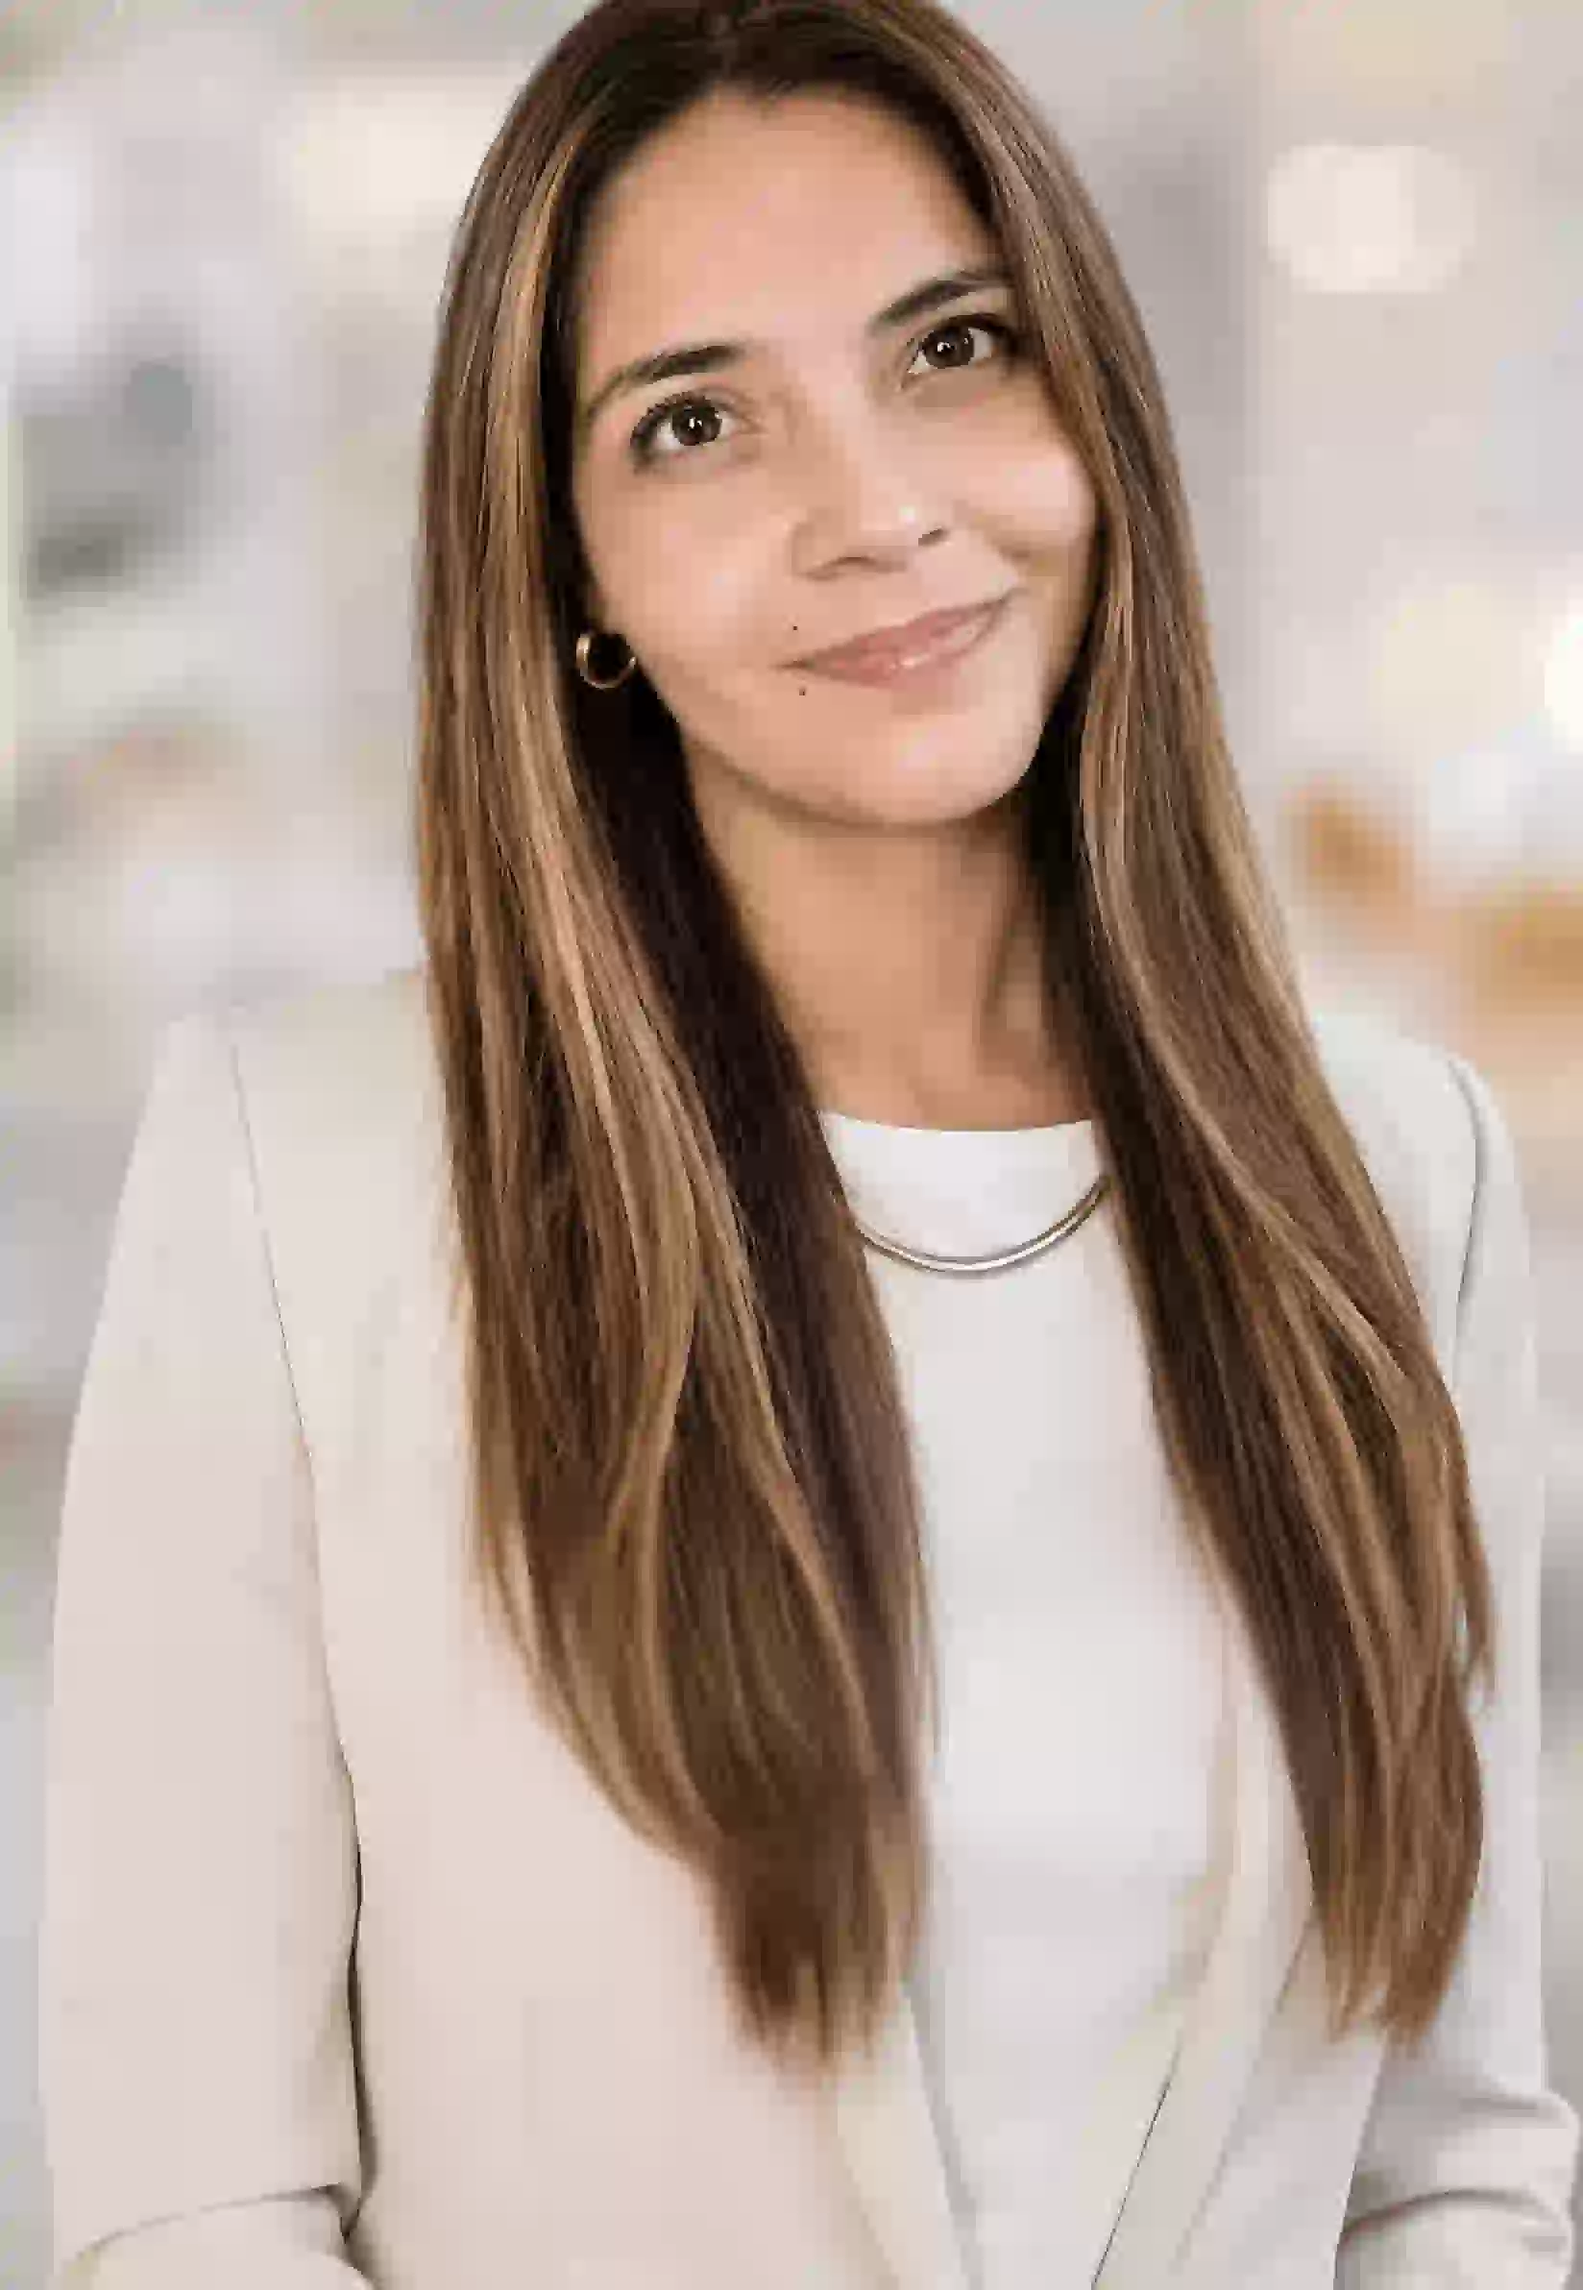
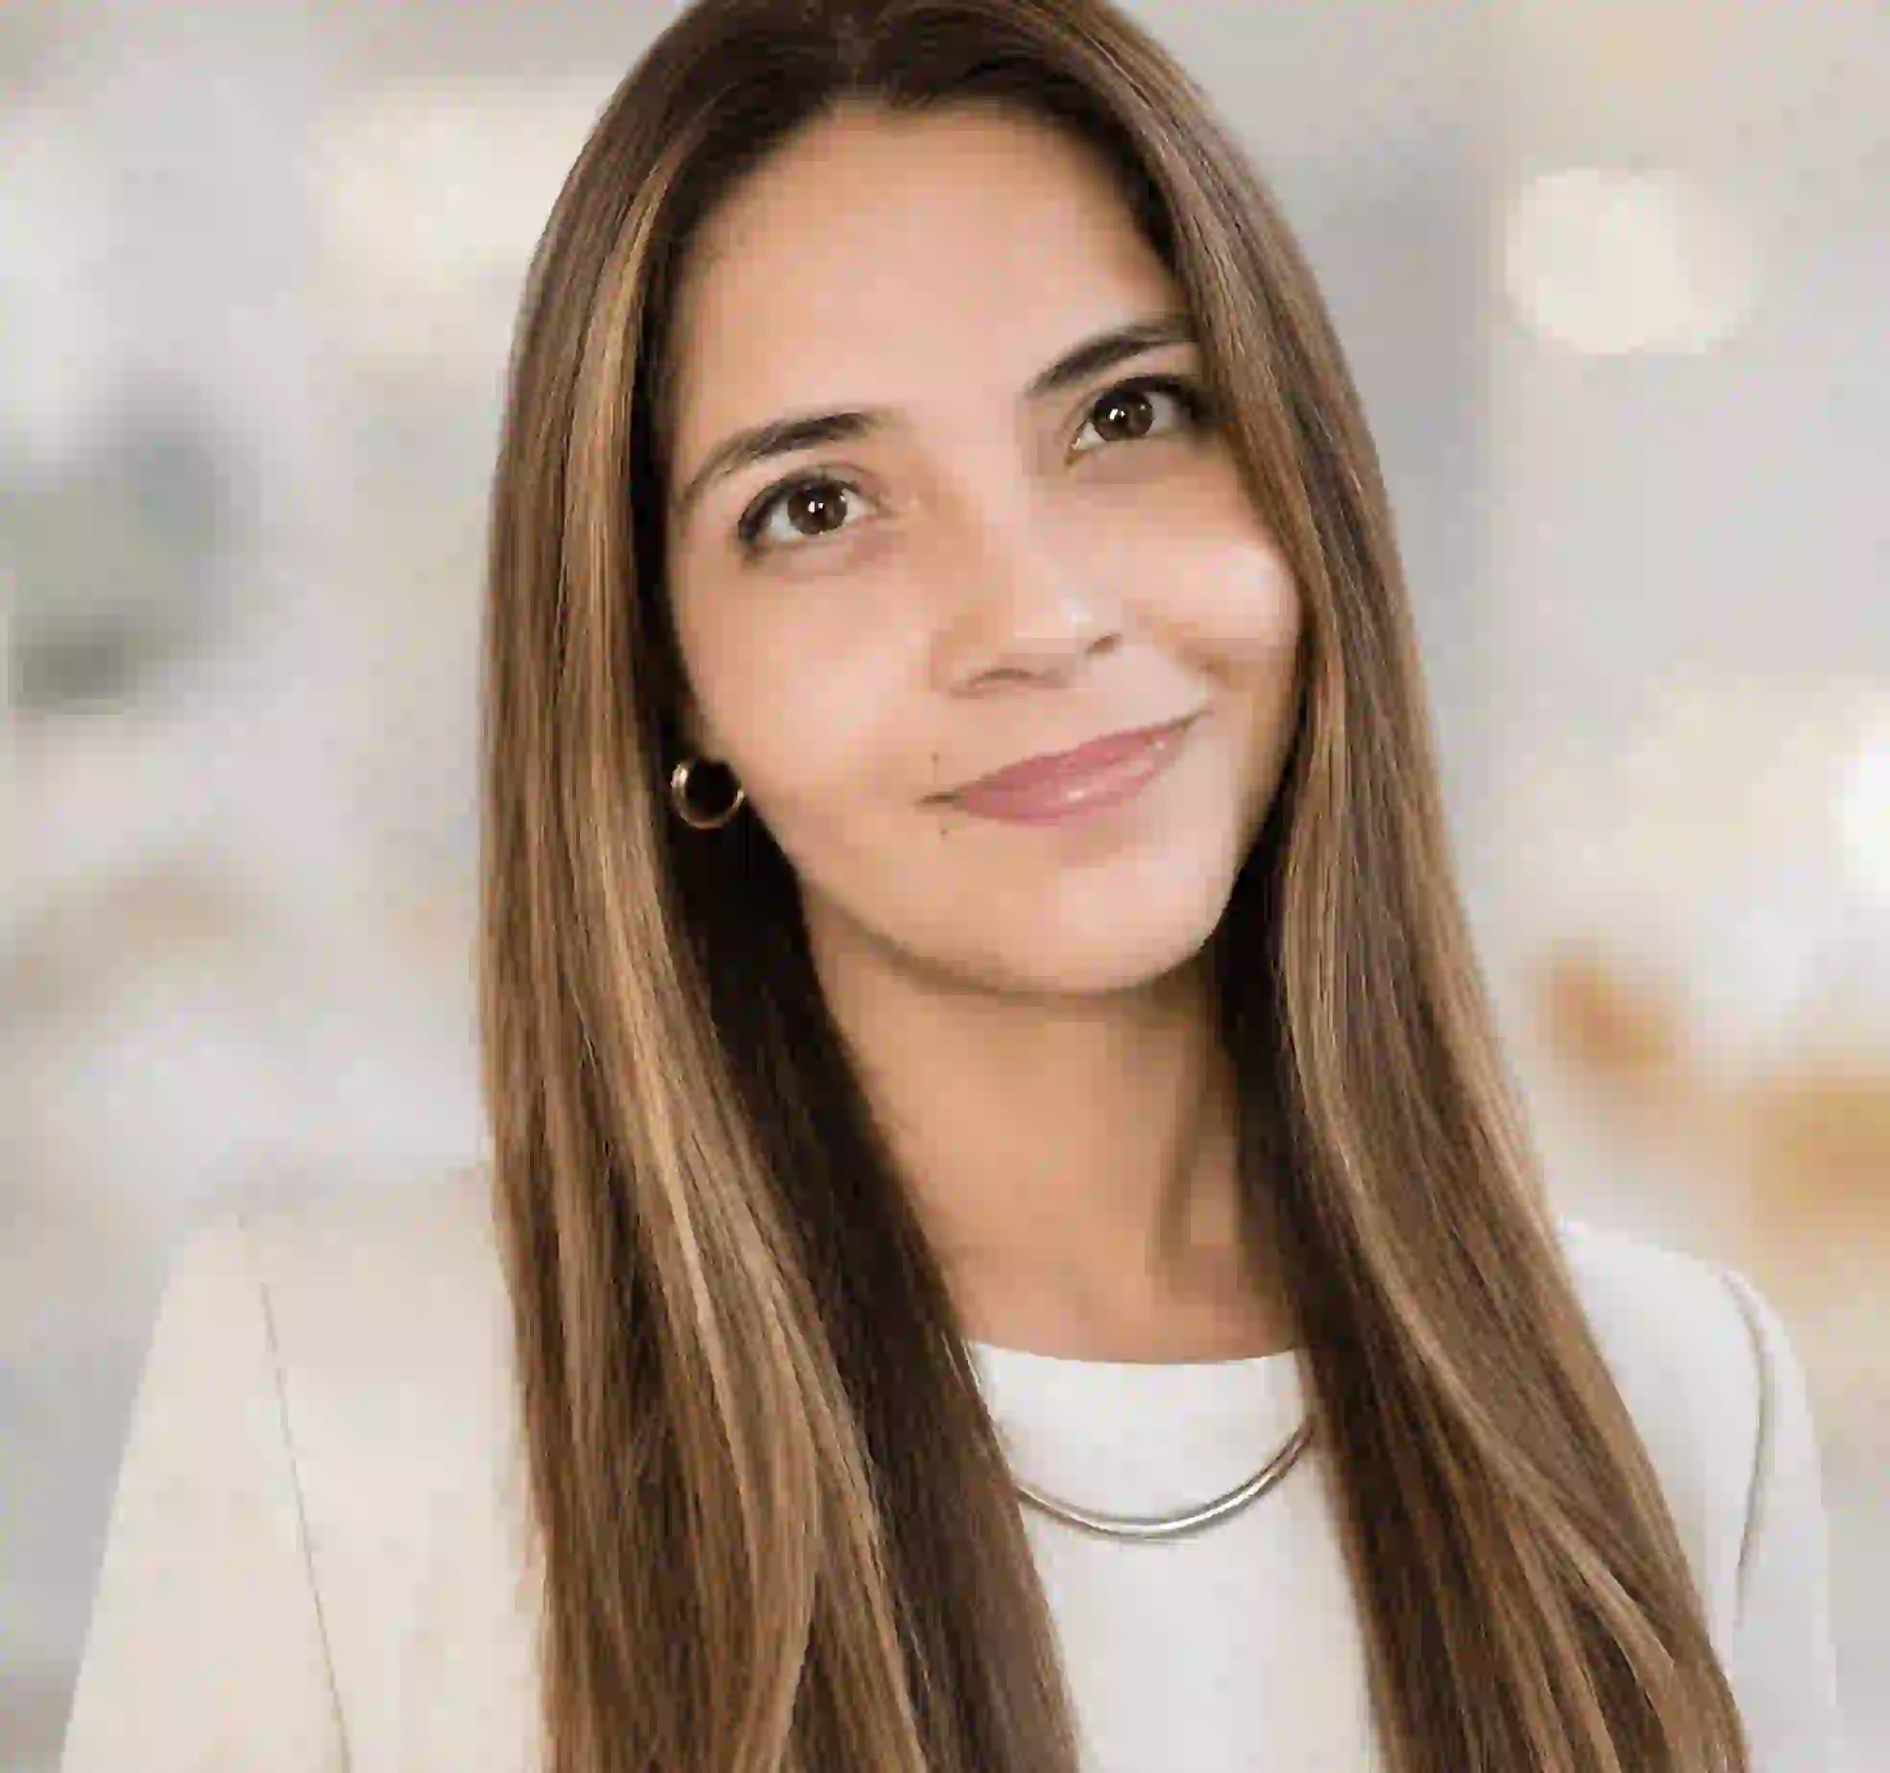
s

diff --git a/index.html b/index.html
@@ -44,6 +44,9 @@
         </section>
     </main>
     <footer>
+        <div class="footer-content">
+            <a>Contact Information:</a>
+            <img>
         <p>&copy;  <span id="currentyear"></span></p><p>Sariah Italletzy San Martin Erazo. All rights reserved.</p>
         <p>Last modified: <span id="lastmodified"></span></p>
     </footer>
